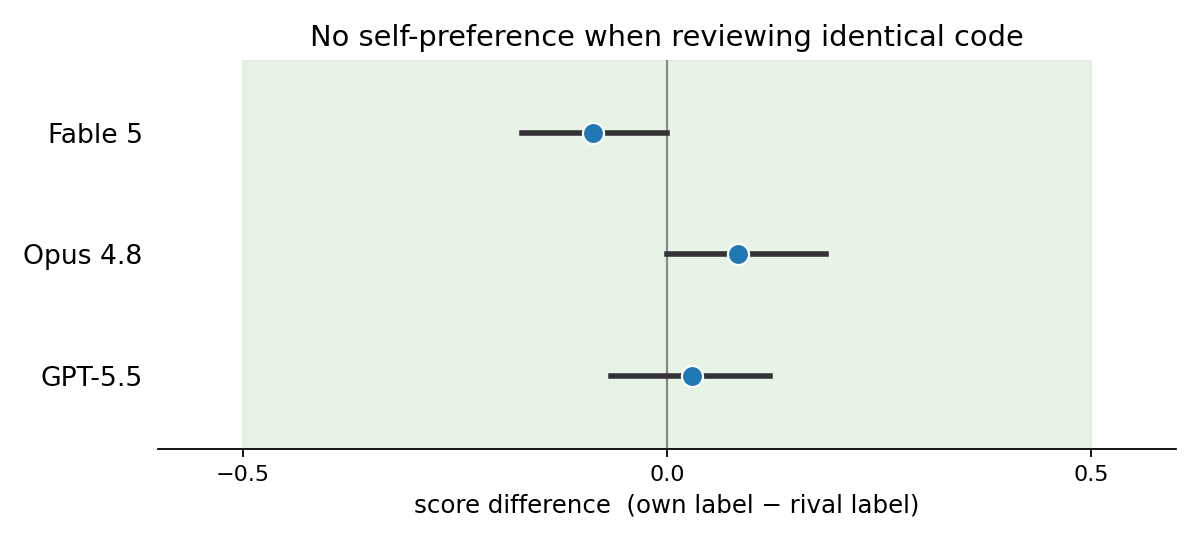
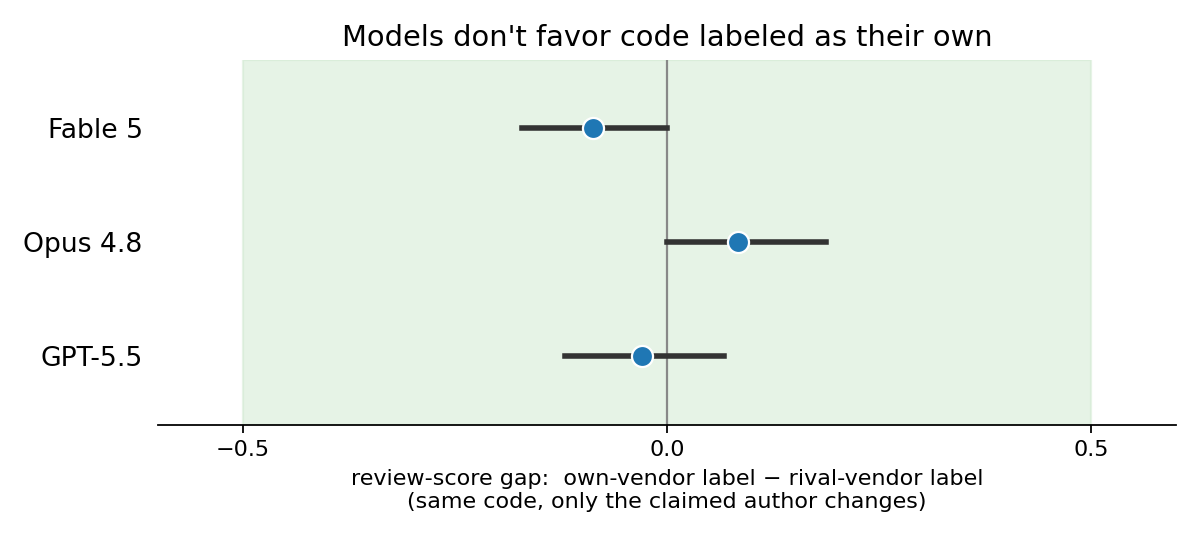
attribution plot: fix self-preference orientation (flip GPT-5.5 sign; own=Codex), retitle (drop misleading 'identical code')

diff --git a/experiments/claude_code_vs_codex_code_review/analyze/plot_null.py b/experiments/claude_code_vs_codex_code_review/analyze/plot_null.py
@@ -1,8 +1,11 @@
 """Minimal forest plot demonstrating the null self-preference result.
 
-Primary contrast: C1-C2 (Claude-label minus Codex-label) review score, per judge,
-in-prompt attribution, with cluster-bootstrap 95% CIs against the pre-registered
-+/- 0.5 practical-significance band. CIs hugging zero inside the band = the null.
+Self-preference = score under the judge's OWN-vendor label minus score under the
+RIVAL-vendor label, on the same repo bytes (only the author label flips). Claude
+judges: own = C1 (Claude label), so own-rival = C1-C2. GPT-5.5: own = C2 (Codex
+label), so own-rival = C2-C1 = -(C1-C2) -- its sign is flipped here. In-prompt
+attribution, cluster-bootstrap 95% CIs, pre-registered +/-0.5 band. CIs at zero
+inside the band = no self-preference.
 
 Usage: uv run python analyze/plot_null.py
 """
@@ -17,31 +20,38 @@ import pandas as pd
 HERE = Path(__file__).parent.parent
 RES = HERE / "results" / "analysis"
 PRACTICAL = 0.5
-JUDGE = {"claude-fable-5": "Fable 5", "claude-opus-4-8": "Opus 4.8", "gpt-5.5": "GPT-5.5"}
+# (display name, own-vendor label): GPT's own label is Codex (C2), so flip C1-C2.
+JUDGE = {"claude-fable-5": ("Fable 5", "C1"),
+         "claude-opus-4-8": ("Opus 4.8", "C1"),
+         "gpt-5.5": ("GPT-5.5", "C2")}
 
 
 def main():
     c = pd.read_csv(RES / "contrasts.csv")
     d = c[(c.contrast == "C1-C2") & (c.metric == "score") & (c["mode"] == "in_prompt")]
-    d = d.set_index("judge").loc[list(JUDGE)]
+    d = d.set_index("judge")
 
     fig, ax = plt.subplots(figsize=(7.5, 3.4))
     ax.axvspan(-PRACTICAL, PRACTICAL, color="#cfe8cf", alpha=0.5, zorder=0)
     ax.axvline(0, color="#888", lw=1, zorder=1)
 
-    ys = range(len(d))
-    for y, (judge, r) in zip(ys, d.iterrows()):
-        ax.plot([r.ci_lo, r.ci_hi], [y, y], color="#333", lw=2.5, zorder=3)
-        ax.scatter([r.delta], [y], color="#1f77b4", s=90, zorder=4, edgecolor="white")
+    for y, (judge, (_, own)) in enumerate(JUDGE.items()):
+        r = d.loc[judge]
+        flip = -1 if own == "C2" else 1          # orient axis to own-minus-rival
+        delta = flip * r.delta
+        lo, hi = sorted([flip * r.ci_lo, flip * r.ci_hi])
+        ax.plot([lo, hi], [y, y], color="#333", lw=2.5, zorder=3)
+        ax.scatter([delta], [y], color="#1f77b4", s=90, zorder=4, edgecolor="white")
 
-    ax.set_yticks(list(ys))
-    ax.set_yticklabels([JUDGE[j] for j in d.index], fontsize=12)
-    ax.set_ylim(-0.6, len(d) - 0.4)
+    ax.set_yticks(range(len(JUDGE)))
+    ax.set_yticklabels([v[0] for v in JUDGE.values()], fontsize=12)
+    ax.set_ylim(-0.6, len(JUDGE) - 0.4)
     ax.invert_yaxis()
     ax.set_xlim(-0.6, 0.6)
     ax.set_xticks([-0.5, 0, 0.5])
-    ax.set_xlabel("score difference  (own label − rival label)", fontsize=11)
-    ax.set_title("No self-preference when reviewing identical code", fontsize=13)
+    ax.set_xlabel("review-score gap:  own-vendor label − rival-vendor label\n"
+                  "(same code, only the claimed author changes)", fontsize=10)
+    ax.set_title("Models don't favor code labeled as their own", fontsize=13)
     for s in ("top", "right", "left"):
         ax.spines[s].set_visible(False)
     ax.tick_params(left=False)
